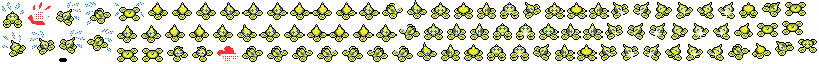
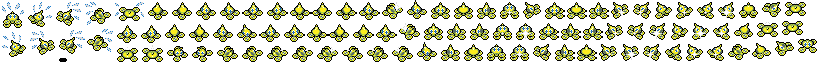
Rotom phone + Pokerus vial + Silvally Ghost

Changed region(s): [[0.2442, 0.7188, 0.3053, 0.9688], [0.0305, 0.0625, 0.0611, 0.4062]]

diff --git a/app/core/simulation.ts b/app/core/simulation.ts
@@ -197,6 +197,19 @@ export default class Simulation extends Schema implements ISimulation {
                 entity
               })
             }
+
+            if (pokemon.items.has(Item.ROTOM_PHONE)) {
+              const teamIndex = team === blueTeam ? 0 : 1
+              const rotomDrone = PokemonFactory.createPokemonFromName(
+                Pkm.ROTOM_DRONE,
+                player
+              )
+              const coord = this.getClosestAvailablePlaceOnBoardToPokemon(
+                pokemon,
+                teamIndex
+              )
+              this.addPokemon(rotomDrone, coord.x, coord.y, teamIndex, true)
+            }
           })
         }
       }
@@ -597,15 +610,6 @@ export default class Simulation extends Schema implements ISimulation {
               if (value.speDef > pokemon.speDef) pokemon.speDef = value.speDef
             }
           })
-        }
-
-        if (pokemon.items.has(Item.ROTOM_PHONE)) {
-          const mon = PokemonFactory.createPokemonFromName(Pkm.ROTOM_DRONE)
-          const coord = this.getClosestAvailablePlaceOnBoardToPokemon(
-              pokemon,
-              pokemon.team
-          )
-          this.addPokemon(mon, coord.x, coord.y, pokemon.team, true)
         }
 
         if (pokemon.items.has(Item.WHITE_FLUTE)) {

diff --git a/app/types/enum/Item.ts b/app/types/enum/Item.ts
@@ -215,7 +215,7 @@ export const Berries: Item[] = [
 ]
 
 export const ArtificialItems: Item[] = [
-  /*Item.ELECTIRIZER,
+  Item.ELECTIRIZER,
   Item.MAGMARIZER,
   Item.EXP_SHARE,
   Item.LIGHT_BALL,
@@ -225,7 +225,7 @@ export const ArtificialItems: Item[] = [
   Item.SWIFT_WING,
   Item.MACHO_BRACE,
   Item.INCENSE,
-  Item.METRONOME,*/
+  Item.METRONOME,
   Item.BIG_NUGGET,
   Item.POKERUS_VIAL,
   Item.ROTOM_PHONE

diff --git a/app/models/colyseus-models/pokemon.ts b/app/models/colyseus-models/pokemon.ts
@@ -5855,14 +5855,14 @@ export class RotomDrone extends Pokemon {
   ])
   rarity = Rarity.SPECIAL
   stars = 1
-  hp = 120
+  hp = 80
   atk = 6
   def = 4
   speDef = 4
   maxPP = 50
-  range = 1
+  range = 3
   skill = Ability.CAMERA_FLASH
-  attackSprite = AttackSprite.STEEL_MELEE
+  attackSprite = AttackSprite.GHOST_RANGE
 }
 
 export class Spiritomb extends Pokemon {

diff --git a/app/public/dist/client/sw.js b/app/public/dist/client/sw.js
@@ -1,7 +1,7 @@
 /* Change this cache name every time you want to force players 
   to invalidate their cache and download all assets again */
 
-const CACHE_NAME = "CACHE v5.1.0.244"
+const CACHE_NAME = "CACHE v5.1.0.247"
 
 // Cache-first strategy
 const cacheFirst = (event) => {

diff --git a/app/public/dist/client/changelog/patch-5.2.md b/app/public/dist/client/changelog/patch-5.2.md
@@ -10,6 +10,8 @@
  - Munna
  - Musharna
  - Kleavor
+ - Rotom Drone
+ - Silvally Ghost
 
 # Changes to Pokemon & Abilities
 
@@ -75,6 +77,8 @@
 - New item: Heat Rock: Gives Fire synergy and counts for 3 towards Zenith. Can only be used on rock Pokémon
 - New item: Smooth Rock: Gives Ground synergy and counts for 3 towards Sandstorm. Can only be used on rock Pokémon
 - New item: Black Augurite: Gives Dark synergy and counts for 3 towards Night. Can only be used on rock Pokémon
+- New Artificial item: Pokérus Vial: Infects the holder with Pokérus
+- New Artificial item: Rotom Phone: Gives Ghost synergy. Summons Rotom Drone near the holder
 - Buff Soothe Bell: ~~25~~ 33% of damage inflicted as shield
 - Changed Blue Orb: the chain lightning now targets the 3 closest enemies, and inflicts 10 special damage in addition to the mana burn
 - Changed power lens: The amount of special damage reduced by special defense is inflicted back to the attacker
@@ -82,7 +86,7 @@
 
 # Gameplay
 
--
+- New Status: Pokérus: Every 2 seconds, gain 1 Attack and 10% Ability Power before infecting 2 adjacent allies with Pokérus
 
 # UI
 
